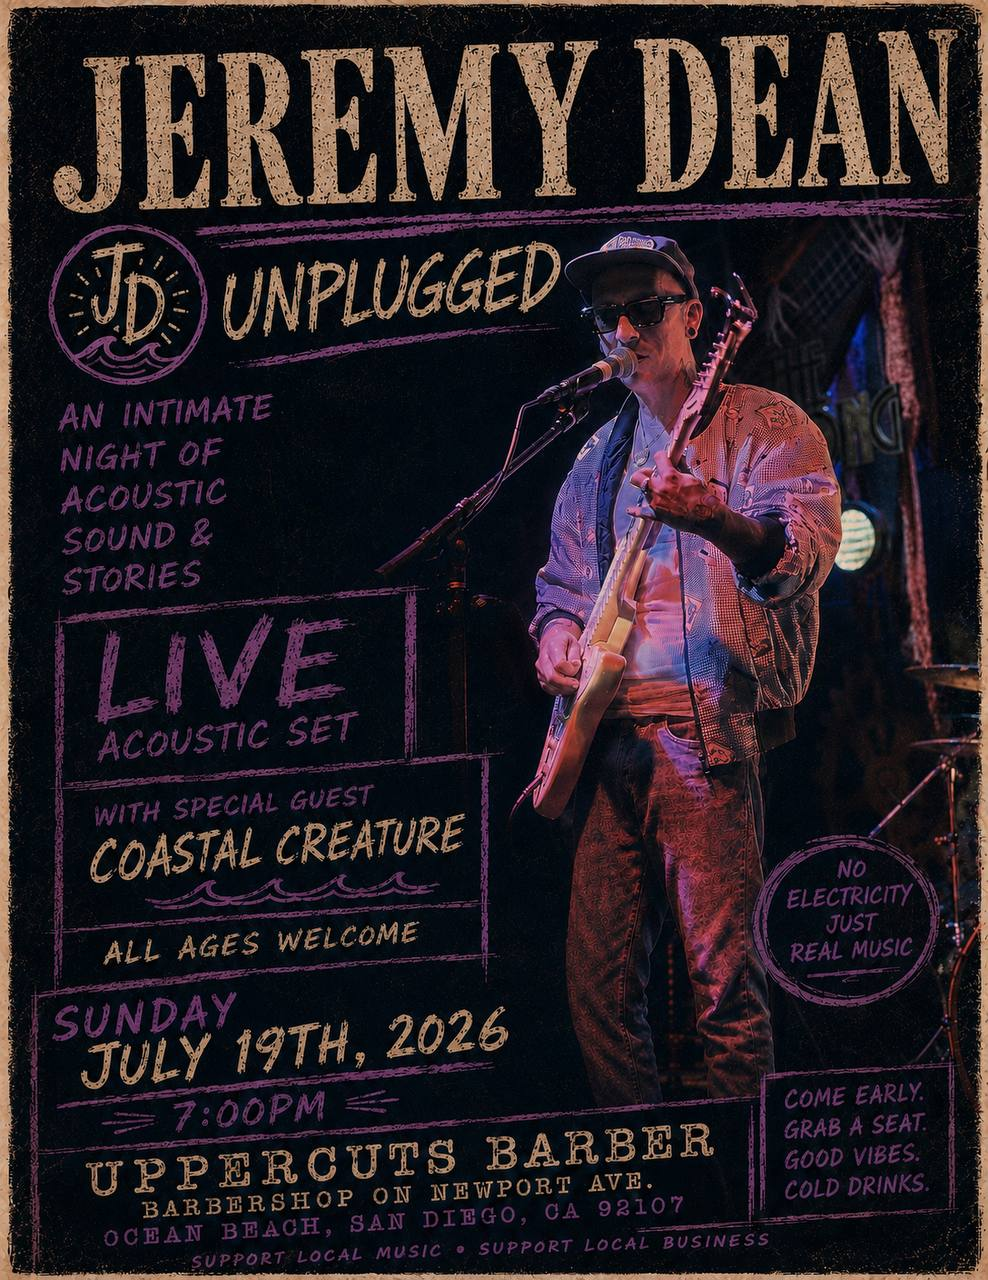
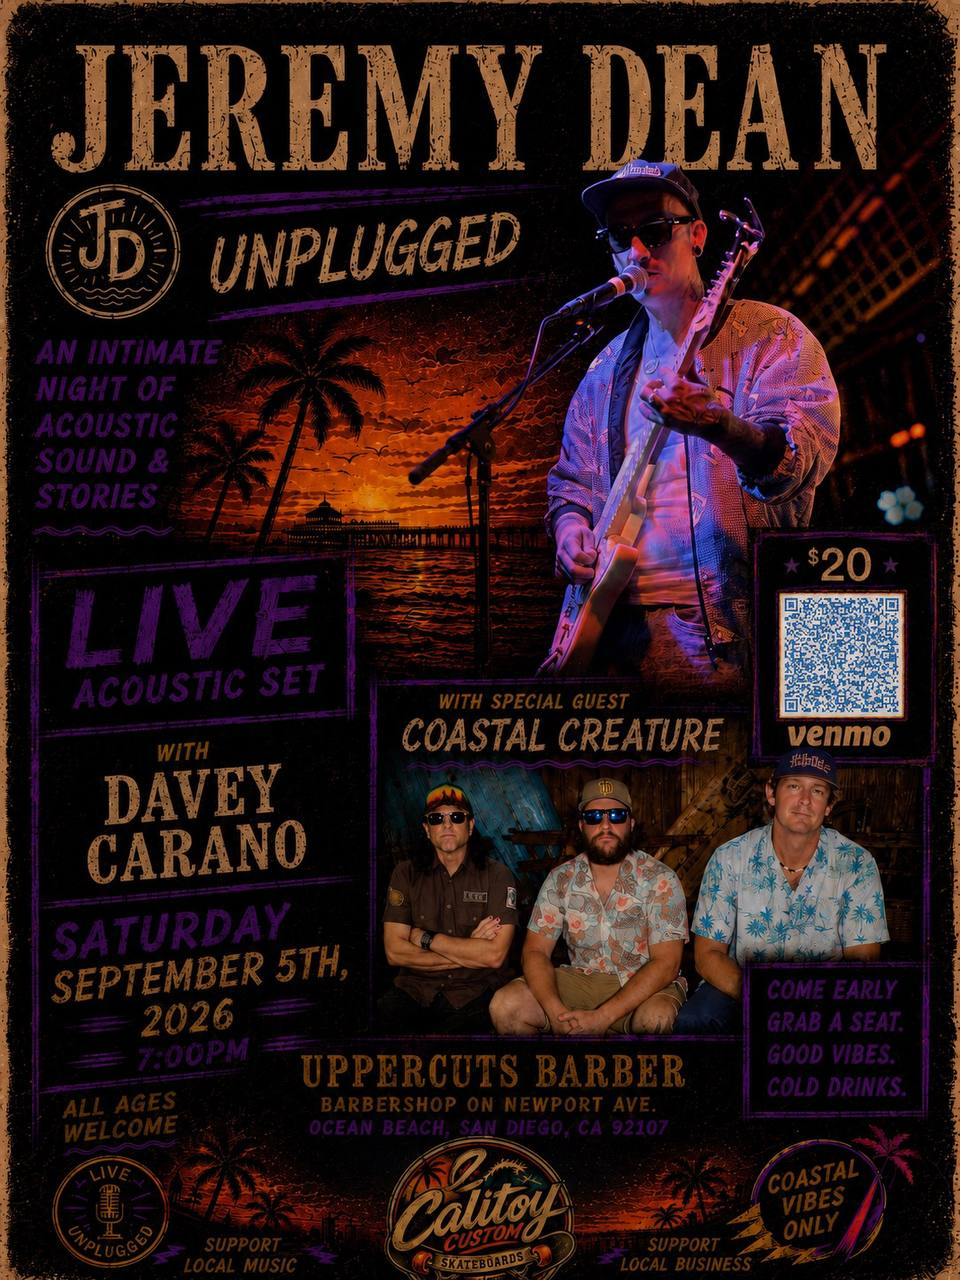
Use updated poster as Jeremy Dean hero

diff --git a/flyer.html b/flyer.html
@@ -14,7 +14,7 @@
     <main class="flyer-page">
       <section class="flyer-hero flyer-hero--posterish flyer-hero--composite">
         <div class="flyer-hero__art flyer-hero__art--stacked">
-          <img src="assets/jeremy-dean-unplugged-alt.jpg" alt="Jeremy Dean performing live under unplugged sunset visuals." />
+          <img src="assets/jeremy-dean-unplugged-poster.jpg" alt="Jeremy Dean Unplugged event poster for September 5, 2026 at Uppercuts Barbershop." />
         </div>
         <div class="flyer-hero__content">
           <p class="flyer-kicker">Live acoustic set</p>

diff --git a/index.html b/index.html
@@ -14,7 +14,7 @@
     <main class="flyer-page">
       <section class="flyer-hero flyer-hero--posterish flyer-hero--composite">
         <div class="flyer-hero__art">
-          <img src="assets/jeremy-dean-unplugged-alt.jpg" alt="Jeremy Dean performing live under unplugged sunset visuals." />
+          <img src="assets/jeremy-dean-unplugged-poster.jpg" alt="Jeremy Dean Unplugged event poster for September 5, 2026 at Uppercuts Barbershop." />
         </div>
         <div class="flyer-hero__content">
           <p class="flyer-kicker">Live acoustic set</p>
